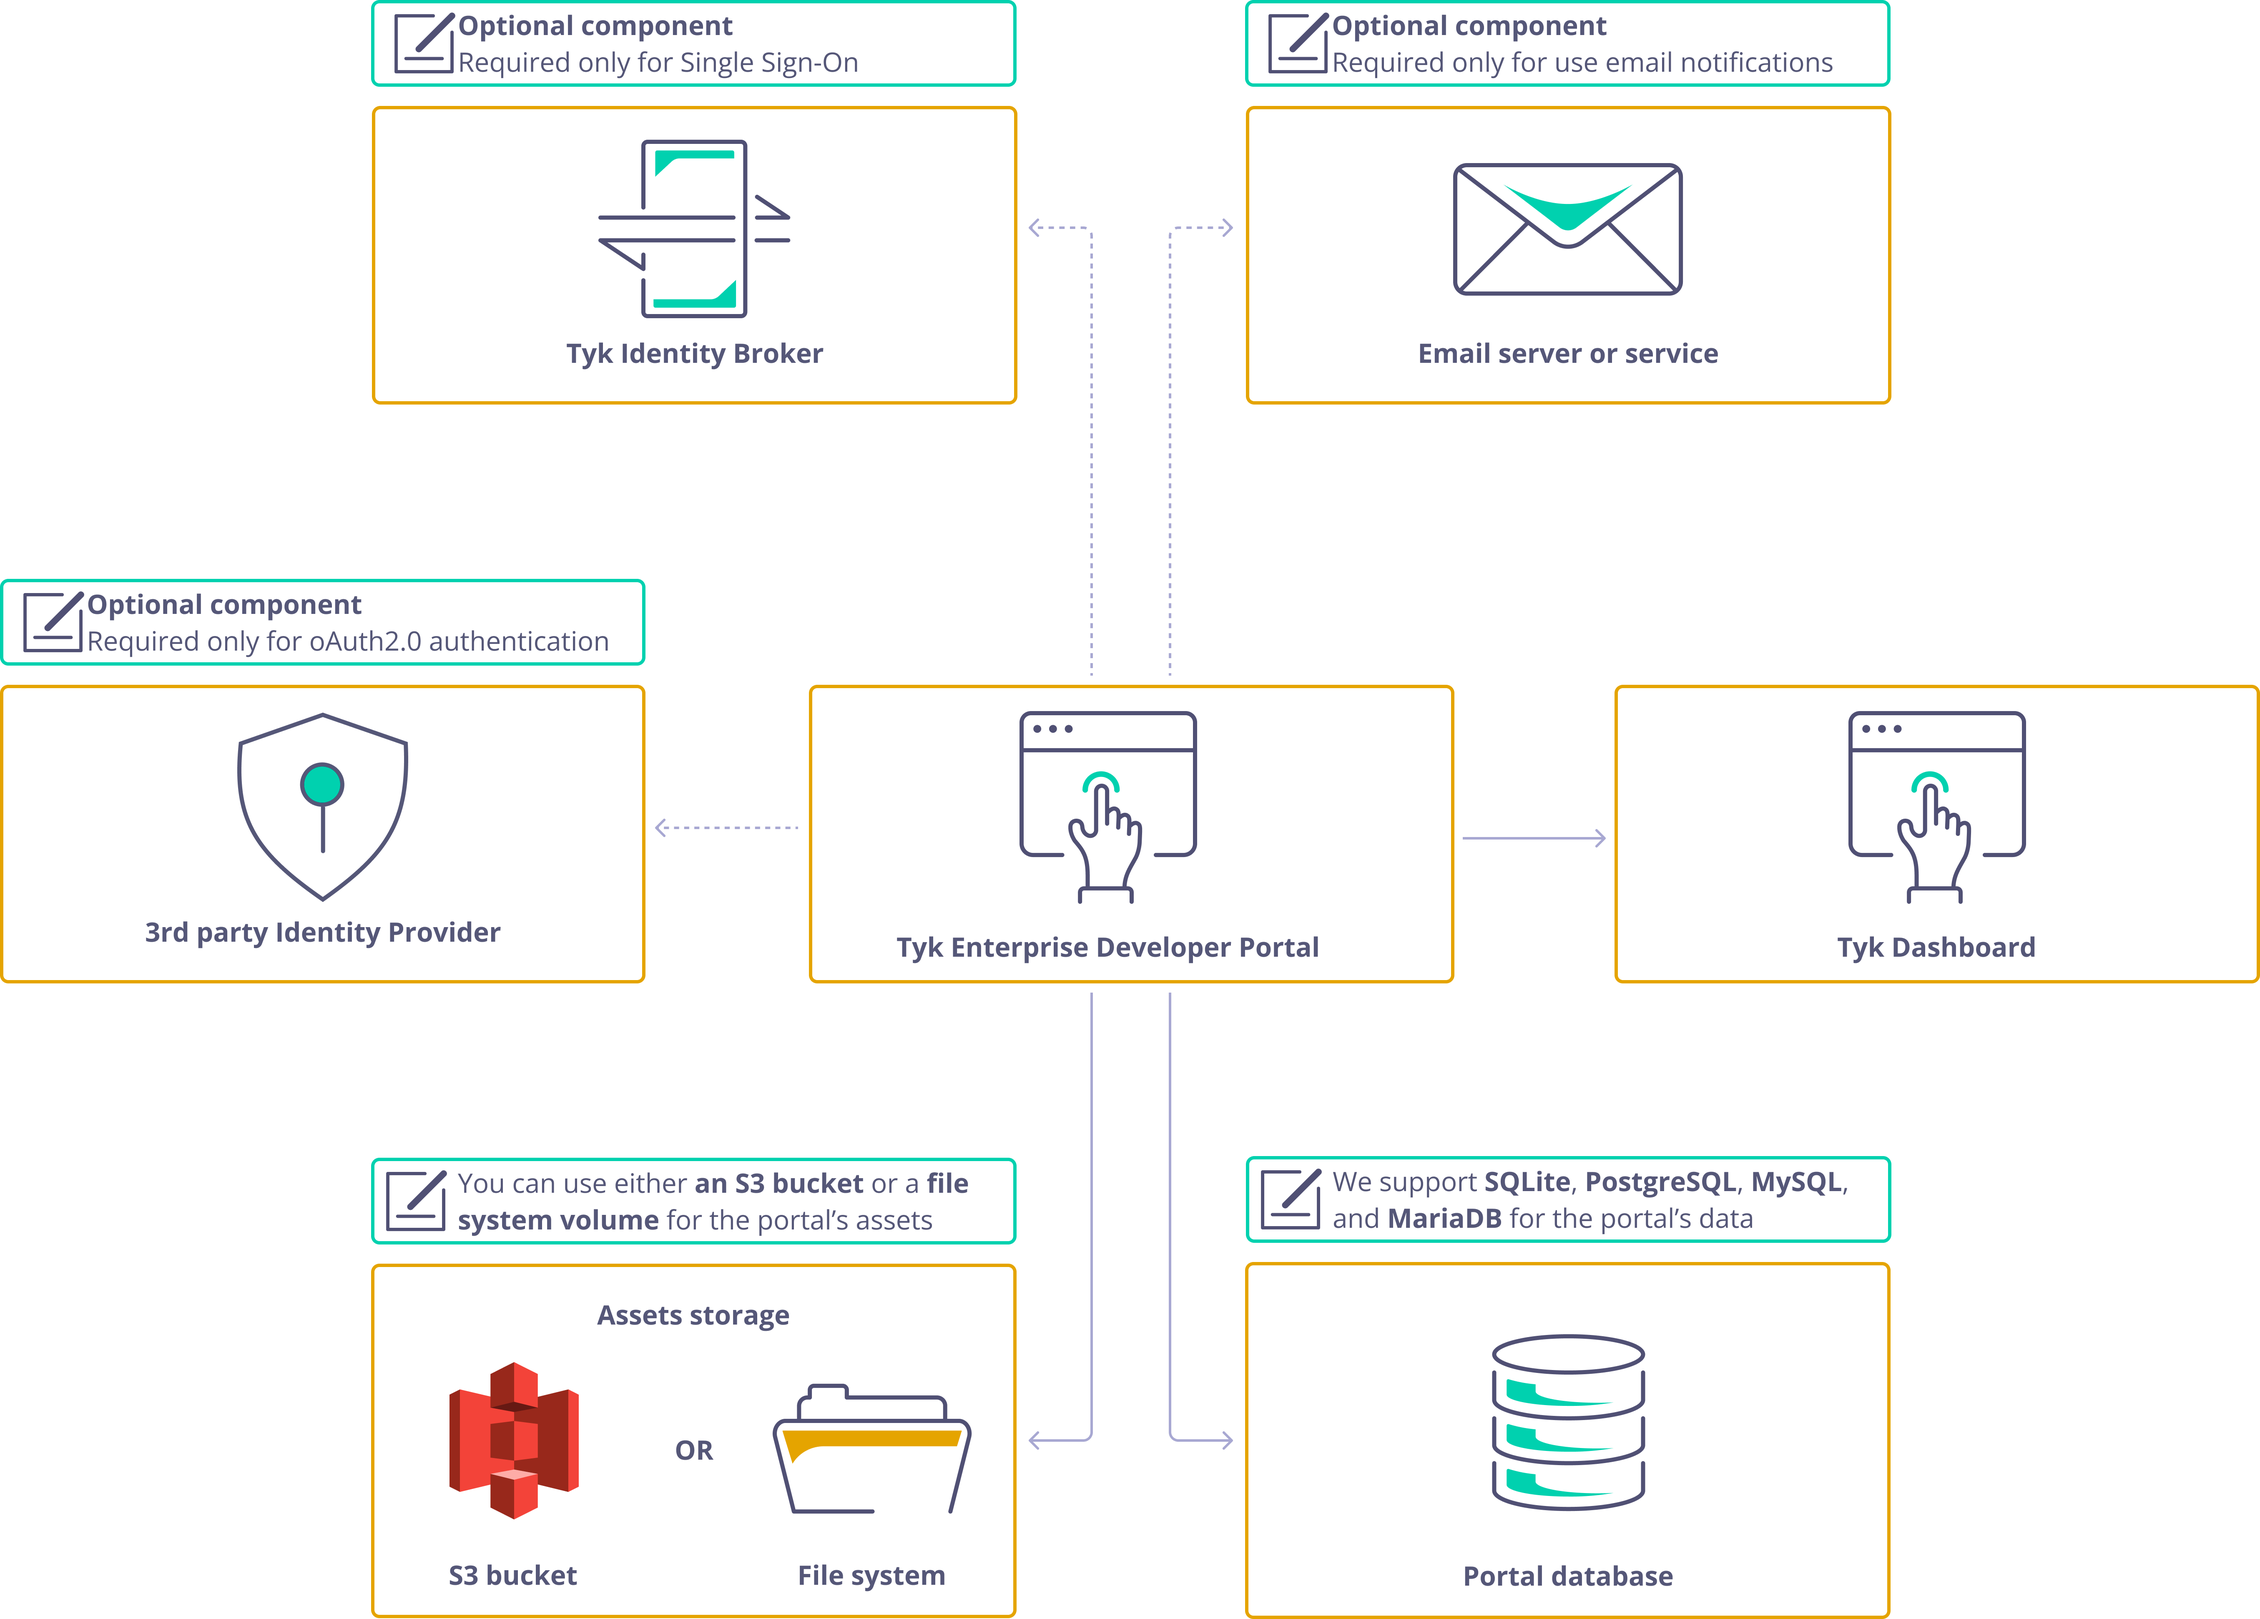
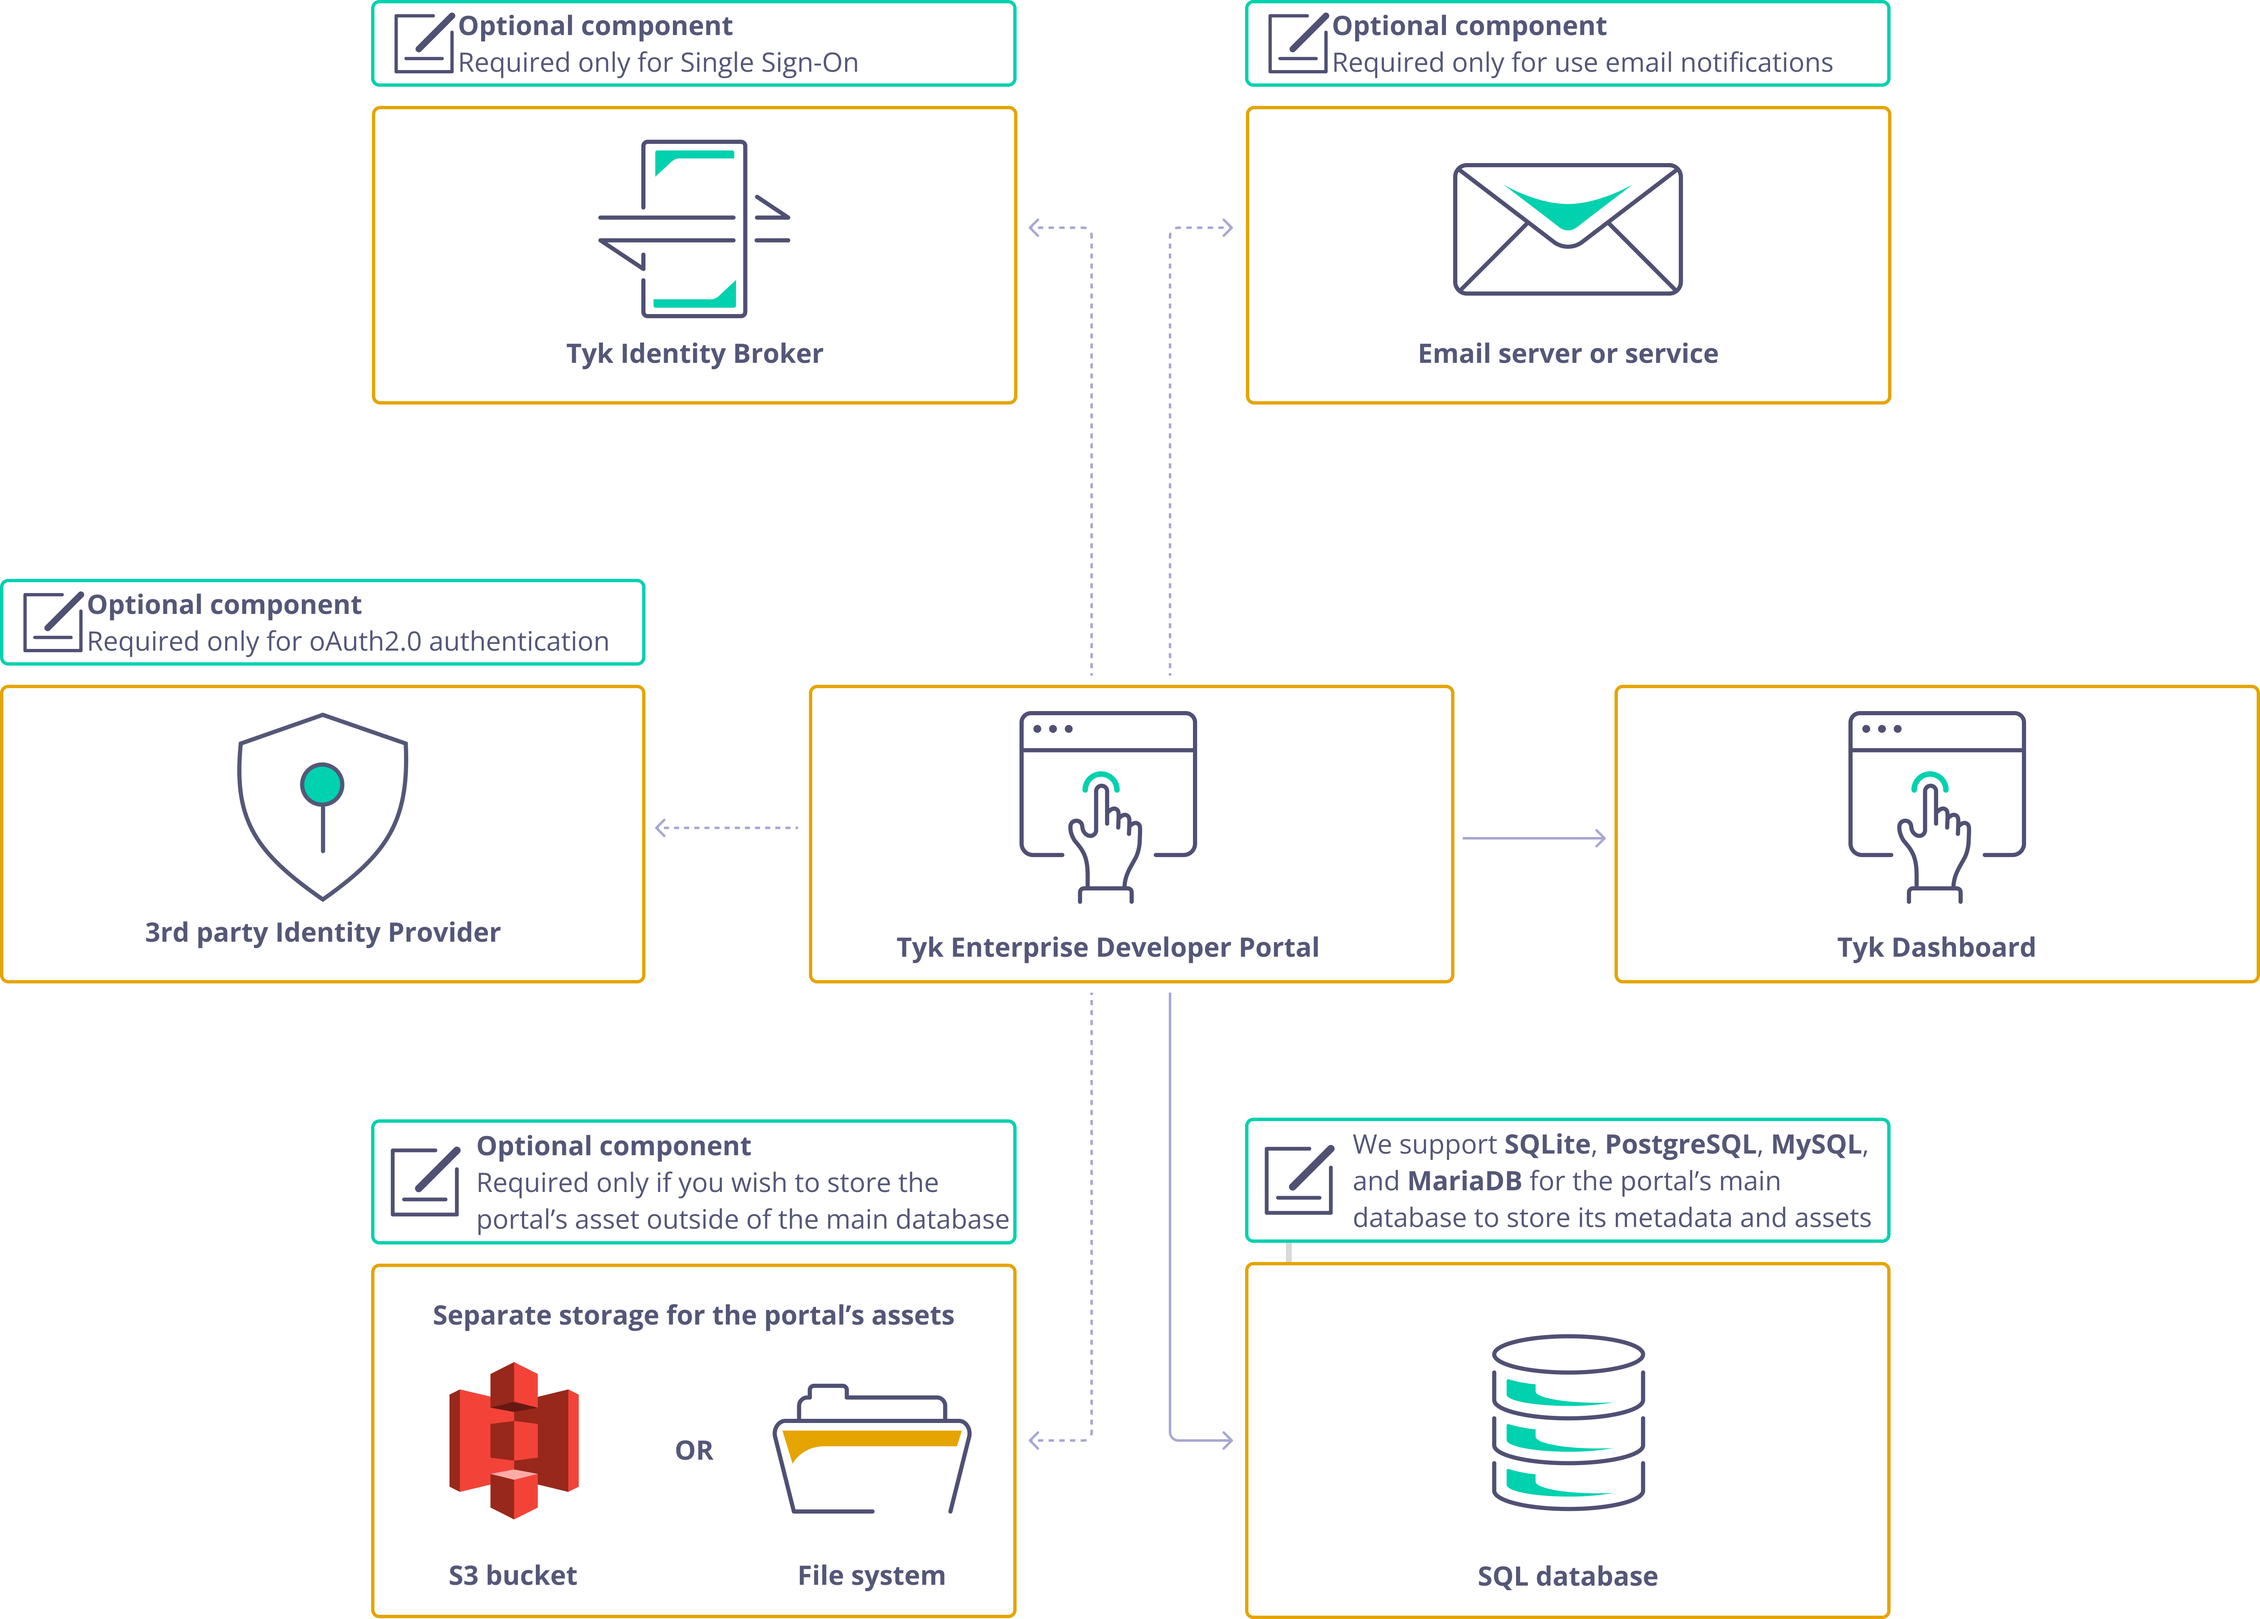
Add docs for EDP 1.4.0 (#2637)
Add docs for EDP 1.4.0

diff --git a/tyk-docs/content/tyk-stack/tyk-developer-portal/enterprise-developer-portal/install-tyk-enterprise-portal/configuration.md b/tyk-docs/content/tyk-stack/tyk-developer-portal/enterprise-developer-portal/install-tyk-enterprise-portal/configuration.md
@@ -90,9 +90,9 @@ However, if you already created [a theme]({{< ref "/content/tyk-stack/tyk-develo
 **Type:** `string` <br/>
 **Description**: Defines a folder where themes are located. Depending on the storage type that you use, you can specify either a relative or an absolute path:
 - If you use the `fs` storage type, you can specify both a relative path (e.g., `./themes`) and an absolute path (e.g., `/themes`)
-- If you use the `s3` storage type, however, you can only use an absolute path (e.g., `/themes`).
+- If you use the `s3` or `db` storage type, however, you can only use an absolute path (e.g., `/themes`).
 
-The default value for this variable is `./themes`, so it's important to redefine it if you plan to use the `s3` storage type.
+The default value for this variable is `./themes`, so it's important to redefine it if you plan to use the `s3` or `db` storage types.
 
 #### PORTAL_DOCRENDERER
 **Config file:** ProductDocRenderer <br/>
@@ -184,6 +184,7 @@ PORTAL_S3_PRESIGN_URLS=true
 **Type:** `string` <br/>
 **Options:**
 - `fs` to use file system storage type;
+- `db` to use the portal's main database. If the `db` is selected as a storage type, the portal application will create appropriate structure in the database that 
 - `s3` to use S3 volume for storing the portal assets.
 
 **Description**: Defines which type of storage to use for the portal's CMS assets. Not required. If it is not specified, the default value is `fs`.
@@ -191,40 +192,40 @@ PORTAL_S3_PRESIGN_URLS=true
 #### PORTAL_S3_AWS_ACCESS_KEY_ID
 **Config file:** S3.AccessKey <br/>
 **Type:** `string` <br/>
-**Description**: Access key for your S3 bucket. This option is only required for the `s3` storage type and will be ignored for the `fs` storage type.
+**Description**: Access key for your S3 bucket. This option is only required for the `s3` storage type and will be ignored for the `fs` and `db` storage types.
 
 #### PORTAL_S3_AWS_SECRET_ACCESS_KEY
 **Config file:** S3.SecretKey <br/>
 **Type:** `string` <br/>
-**Description**: Secret access key for your S3 bucket. This option is only required for the `s3` storage type and will be ignored for the `fs` storage type.
+**Description**: Secret access key for your S3 bucket. This option is only required for the `s3` storage type and will be ignored for the `fs` and `db` storage types.
 
 #### PORTAL_S3_REGION
 **Config file:** S3.Region <br/>
 **Type:** `string` <br/>
-**Description**: AWS region where the S3 bucket is hosted. E.g., `sa-east-1`. This option is only required for the `s3` storage type and will be ignored for the `fs` storage type.
+**Description**: AWS region where the S3 bucket is hosted. E.g., `sa-east-1`. This option is only required for the `s3` storage type and will be ignored for the `fs` and `db` storage types.
 
 #### PORTAL_S3_ENDPOINT
 **Config file:** S3.Endpoint <br/>
 **Type:** `string` <br/>
-**Description**: URL to object storage service. E.g., `https://s3.sa-east-1.amazonaws.com` or `https://play.min.io`. This option is only required for the `s3` storage type and will be ignored for the `fs` storage type.
+**Description**: URL to object storage service. E.g., `https://s3.sa-east-1.amazonaws.com` or `https://play.min.io`. This option is only required for the `s3` storage type and will be ignored for the `fs` and `db` storage types.
 
 #### PORTAL_S3_BUCKET
 **Config file:** S3.Bucket <br/>
 **Type:** `string` <br/>
-**Description**: Name of the S3 bucket. Required only for the `s3` storage type. This option is only required for the `s3` storage type and will be ignored for the `fs` storage type.
+**Description**: Name of the S3 bucket. Required only for the `s3` storage type. This option is only required for the `s3` storage type and will be ignored for the `fs` and `db` storage types.
 
 #### PORTAL_S3_ACL
 **Config file:** S3.ACL <br/>
 **Type:** `string` <br/>
 **Description**: ACL permissions are set on the bucket, with options including `private`, `public-read`, `public-read-write`, and `authenticated-read`.
-If the bucket uses a policy to set permissions, you should leave the ACL value empty. This option is only required for the `s3` storage type and will be ignored for the `fs` storage type.
+If the bucket uses a policy to set permissions, you should leave the ACL value empty. This option is only required for the `s3` storage type and will be ignored for the `fs` and `db` storage types.
 
 #### PORTAL_S3_PRESIGN_URLS
 **Config file:** S3.PresignURLs <br/>
 **Type:** `string` <br/>
 **Description**: The PresignURLs option instructs the client to retrieve presigned URLs for the objects.
 This is particularly useful if the bucket is private and you need to access the object directly, such as when displaying an image on a web page.
-This option is only required for the `s3` storage type and will be ignored for the `fs` storage type.
+This option is only required for the `s3` storage type and will be ignored for the `fs` and `db` storage types.
 
 ### Database connection settings
 This section provides a reference for the database connection settings used in the portal.

diff --git a/tyk-docs/content/tyk-stack/tyk-developer-portal/enterprise-developer-portal/install-tyk-enterprise-portal.md b/tyk-docs/content/tyk-stack/tyk-developer-portal/enterprise-developer-portal/install-tyk-enterprise-portal.md
@@ -36,8 +36,8 @@ Please refer to [the Bootstrapping section]({{< ref "install-tyk-enterprise-port
 
 The portal deployment comprises three main components:
 - The portal application itself
-- The portal's database, which stores metadata related to the portal, such as API products, plans, developers, applications, and more
-- The assets storage, which stores CMS assets like images, themes, and OpenAPI specification files
+- The portal's main database that stores metadata related to the portal, such as API products, plans, developers, applications, and more
+- The asset storage, which stores CMS assets such as images, themes, and OpenAPI specification files. The assets could reside in the portal's main database or separately in an S3 bucket or filesystem volume.
 
 Optionally, there could be three additional components:
 - **3rd party identity provider.** To [enable oAuth2.0 for your API Products]({{< ref "/content/tyk-stack/tyk-developer-portal/enterprise-developer-portal/api-access/dynamic-client-registration.md" >}}), you'll need to utilize an OpenID-compliant third-party identity provider.
@@ -70,3 +70,8 @@ Additionally, the API Analytics dashboard will be compromised.
 However, API traffic will remain unaffected, meaning that your APIs will continue to be operational, and analytics will continue to be recorded.
 
 In terms of admin functionality, the only limitation will be the inability to approve or reject access requests or revoke or rotate access credentials.
+
+
+### Does the portal support SQL databases for storing the portal's CMS assets?
+Yes, since 1.4.0 version of the Enterprise Developer Portal, it supports SQL databases (MariaDB, SQLite, MySQL, and PostgreSQL) for storing the portal's CMS assets.
+During the bootstrap process, the portal will create the appropriate tables in the main database. The only thing required to enable SQL storage for the portal's assets is to specify the `db` [storage type]({{< ref "install-tyk-enterprise-portal/configuration.md#portal_storage" >}}) either via a config file or an environment variable.
